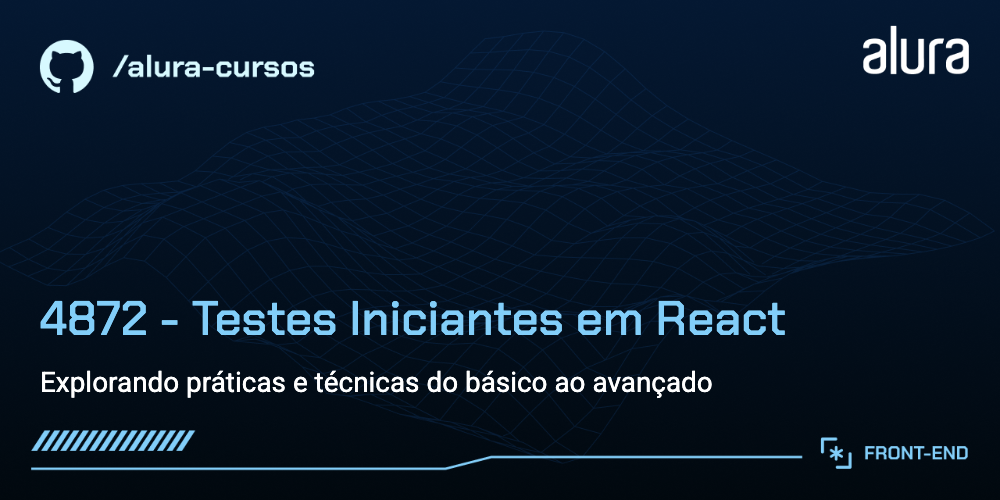
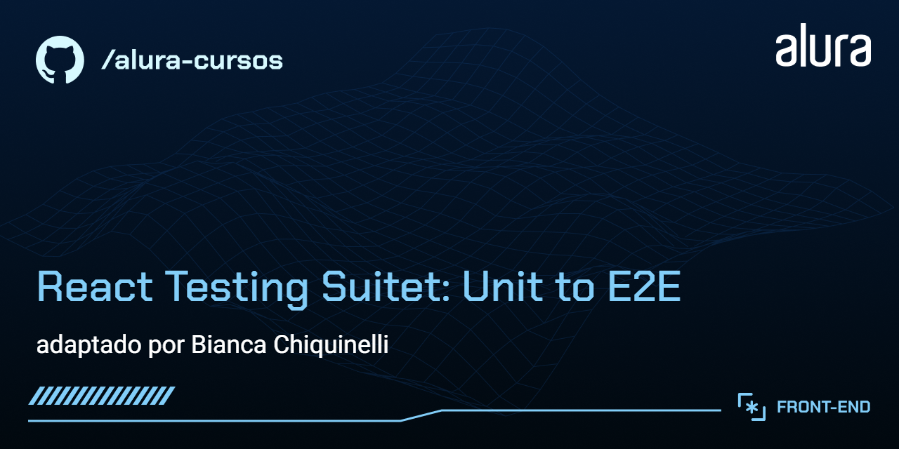
docs(readme): atualiza readme

diff --git a/README.md b/README.md
@@ -1,58 +1,82 @@
+# 🧪 Checklist App — Suite Completa de Testes Automáticos (Jest, RTL & Cypress)
+
 ![](thumbnail.png)
 
-# Testando um App de Checklist de Estudos
-
-Um projeto para quem já conhece as tecnologias mais importantes da web (HTML, CSS, JS) e o básico de ReactJS, mas deseja alcançar um novo nível de qualidade em suas aplicações, tornando-as confiáveis, robustas e manuteníveis mesmo com o passar do tempo. Ao longo do curso, criamos testes unitários, de componentes e E2E para uma aplicação React já desenvolvida e entendemos, na prática e com embasamento teórico, como os testes melhoram a qualidade de vida de todo o time.
-
-## 🔨 Funcionalidades do projeto
-
-- Criação de testes unitários
-- Construção de testes de integração/componente
-- Desenvolvimento de testes E2E (End-to-End)
-- Utilização de Mocks, Stubs e Spies
-- Visualização e análise de relatórios de coverage (cobertura de código)
-- Adição de NPM scripts e snippets para produtividade
-
-![](screen-capture.png)
-
-## ✔ Técnicas e tecnologias utilizadas
-
-Os conhecimentos desenvolvidos ao longo do projeto abordam as seguintes técnicas e tecnologias:
-
-- **Pirâmide de Testes:** Metodologia que organiza e prioriza diferentes tipos de testes.
-- **Jest:** Framework de testes JavaScript para testes unitários e de integração.
-- **React Testing Library:** Ferramenta para testar componentes React focando no usuário.
-- **Cypress:** Ferramenta para escrever e executar testes E2E no navegador.
-- **Mocks, Stubs e Spies:** Simulam dependências para isolar o código em testes.
-- **Code Coverage:** Mede a porcentagem de código coberto por testes.
-- **Falso-Positivos:** Entendimento e prevenção de testes enganosos.
-- **npm scripts, entensões, snippets e muito mais:** Dicas práticas que vão ajudar você a ser um dev melhor e mais produtivo.
-
-## 🛠 Como rodar o projeto
-
-Após baixar o projeto, siga os passos abaixo para executar localmente:
-
-1. Certifique-se de que você já tem Node.js instalado ([guia oficial](https://nodejs.org/en/download/)).
-2. No terminal, navegue até a pasta do projeto e instale as dependências:
-
-```bash
-npm install
-```
-
-3. Execute o projeto:
-
-```bash
-npm start
-```
-
-4. Acesse no navegador: [http://localhost:5173](http://localhost:5173) (Vite).
-
-## 📚 Mais informações do curso
-
-Gostou da ideia e quer aprender com as aula? O passo a passo completo, desde a instalação até a criação de todos os testes, faz parte do curso da carreira React da Alura, com foco em experiência real de desenvolvimento, boas práticas e conceitos importantes para os devs.
-
-Se quiser experimentar, explore o código e aumente a cobertura de testes do projeto utilizando tudo que aprendeu!
+Aplicação React focada em garantir alta qualidade de software, confiabilidade e facilidade de manutenção por meio de uma estratégia completa de testes automatizados que cobre desde funções utilitárias isoladas até fluxos vitais End-to-End no navegador.
 
 ---
 
-Aguardo você no próximo curso ou no [Manual do Front](https://www.youtube.com/@manualdofront), até a próxima 🚀
+## 🎯 Destaques do Projeto & Engenharia de Testes
+
+O diferencial deste repositório está na **cobertura abrangente em todas as camadas da Pirâmide de Testes**, adotando boas práticas e abstrações de teste para manutenibilidade:
+
+- **Arquitetura & Custom Render:** Criação de um `customRender` que engloba contextos globais (`TodoContext`), eliminando boilerplate e simplificando asserções nos testes de componentes.
+- **Simulação Realista do Usuário:** Utilização de `@testing-library/user-event` para simular interações reais de digitação e submissão de formulários, associado a _spies_ e _mocks_ de funções do contexto.
+- **Testes Orientados a Dados (Data-Driven):** Testes unitários para funções utilitárias puras (como `mergeClass`), cobrindo múltiplas variações condicionais de estilo.
+- **Asserções Assíncronas e Casos Limite:** Uso estratégico de consultas assíncronas (`findBy`, `queryByText`) para validar estados de carregamento, respostas da API, seletores do React Context e renders de lista vazia.
+- **E2E Browser Automation (Cypress):** Testes de ponta a ponta configurados com `baseUrl` e _Cypress Studio_, validando o ciclo completo do CRUD (criação, edição e exclusão de tarefas no DOM).
+- **Métricas de Cobertura & DX:** Scripts customizados para geração de relatórios de _code coverage_, linting integrado para Jest e ambiente Babel pré-configurado.
+
+![](screen-capture.png)
+
+---
+
+## 🛠 Tecnologias & Ferramentas
+
+- **Core:** React, Vite, JavaScript (ES6+), React Context API
+- **Unit & Integration Testing:** Jest, React Testing Library (RTL), `@testing-library/user-event`
+- **End-to-End (E2E):** Cypress
+- **Tooling & DX:** Babel, ESLint, Coverage Reports
+
+---
+
+## 🧪 Estrutura e Escopo dos Testes
+
+| Camada                            | Ferramenta      | Escopo / Funcionalidades Testadas                                                                                |
+| :-------------------------------- | :-------------- | :--------------------------------------------------------------------------------------------------------------- |
+| **Unitário (Utils & Components)** | Jest + RTL      | Funções puras (`mergeClass`), botões de ação (`FabButton`), cabeçalhos e estados de renderização inicial.        |
+| **Integração (Context & Forms)**  | RTL + userEvent | Fluxos do `FormToDo`, componentes `ToDoGroup`, `ToDoItem`, `ToDoCount` e integração direta com o `TodoProvider`. |
+| **End-to-End (E2E)**              | Cypress         | Fluxos completos de criação, edição e remoção de tarefas em ambiente de navegador real.                          |
+
+---
+
+## 🚀 Como Executar o Projeto Localmente
+
+### Pré-requisitos
+
+- **Node.js** (v18+ recomendado)
+- **npm** ou **yarn**
+
+### Passo a Passo
+
+1. **Clone e instale as dependências:**
+   ```bash
+   git clone [https://github.com/chiquinelli-bia/tests-jest-testing-library.git](https://github.com/chiquinelli-bia/tests-jest-testing-library.git)
+   cd nome-do-repositorio
+   npm install
+   ```
+2. **Execute a aplicação:**
+
+   ```bash
+    npm start
+   ```
+
+3. Execute a suíte de testes:
+
+- Testes Unitários / Integração (Jest):
+
+  ```bash
+  npm test
+  ```
+
+- Relatório de Cobertura (Coverage):
+
+  ```bash
+  npm run test:coverage
+  ```
+
+- Testes End-to-End (Cypress):
+
+  ```bash
+  npx cypress open
+  ```
